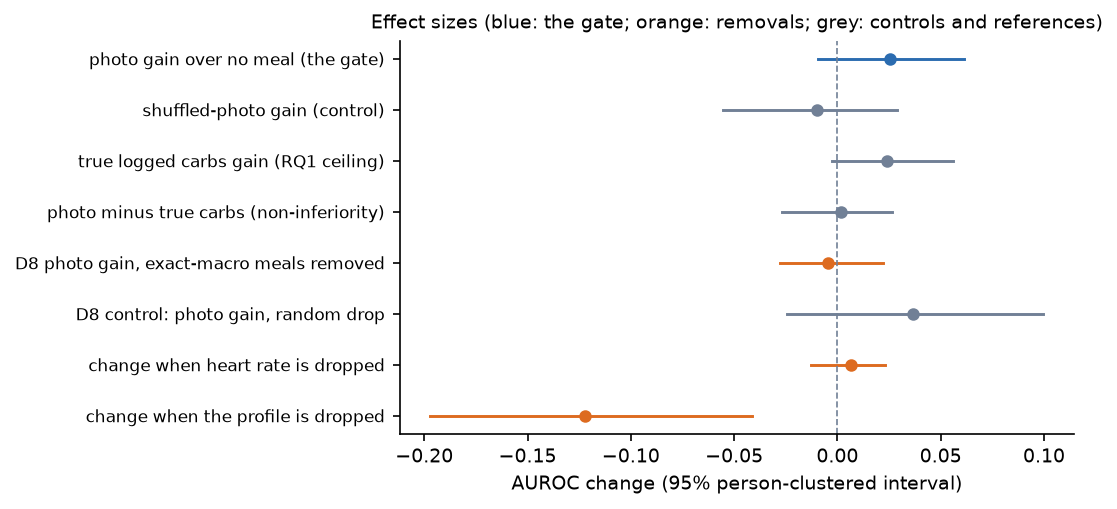
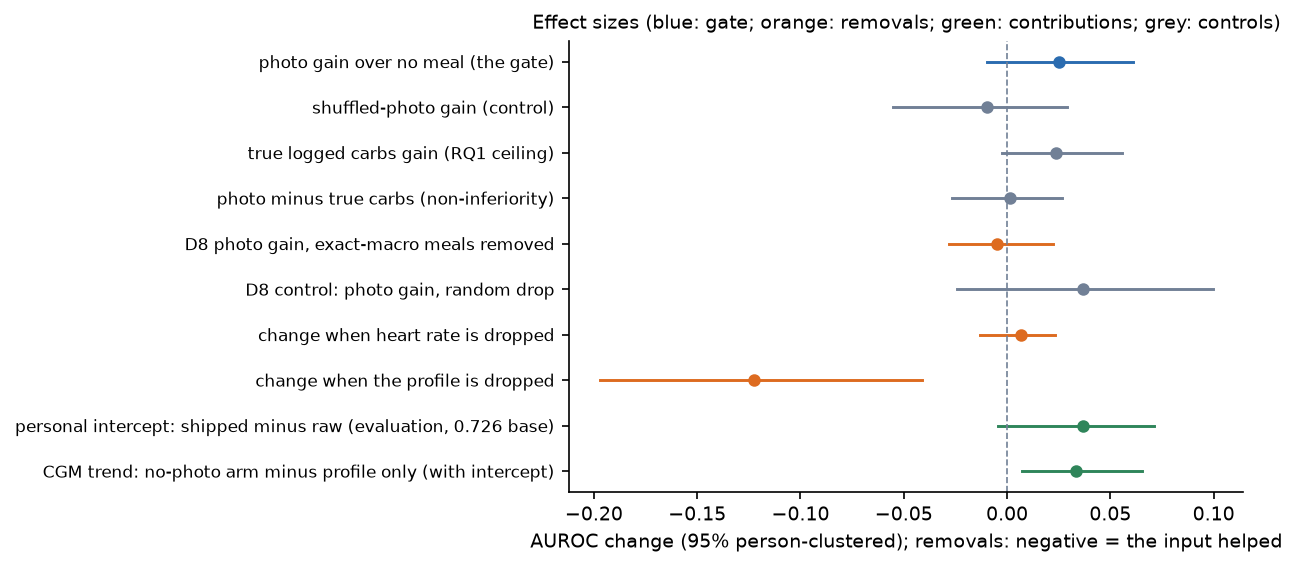
Figure 4: intercept and CGM contributions, sign convention
Claude-Session: https://claude.ai/code/session_01U1MwL7j11MLBZ4KUvxGUHV

diff --git a/src/glimpse/figures.py b/src/glimpse/figures.py
@@ -184,15 +184,20 @@ def f4_effects(plt, fu: dict, ch: dict, d8: dict) -> None:
         ("change when the profile is dropped", ch["delta_vs_full"]["no_profile"]["point"],
          ch["delta_vs_full"]["no_profile"]["ci95"], ORANGE),
     ]  # fmt: skip
-    fig, ax = plt.subplots(figsize=(5.8, 3.4))
+    rm = json.loads(Path("outputs/report_metrics/report_metrics.json").read_text())
+    pg, cg = rm["paired_personal_minus_raw"]["dev"]["auroc"], rm["fair_baselines"]["cgm_removal"]
+    rows += [("personal intercept: shipped minus raw (evaluation, 0.726 base)", pg["point"], pg["ci95"], GREEN),
+             ("CGM trend: no-photo arm minus profile only (with intercept)", cg["no_photo_minus_profile_only"],
+              cg["ci95"], GREEN)]  # fmt: skip
+    fig, ax = plt.subplots(figsize=(5.8, 3.9))
     ys = np.arange(len(rows))[::-1]
     for yv, (_label, pt, ci, c) in zip(ys, rows, strict=True):
         ax.plot(ci, [yv, yv], color=c, lw=1.4)
         ax.plot([pt], [yv], "o", color=c, ms=5)
     ax.axvline(0, color=GREY, lw=0.8, ls="--")
     ax.set_yticks(ys, [r[0] for r in rows], fontsize=8)
-    ax.set_xlabel("AUROC change (95% person-clustered interval)")
-    ax.set_title("Effect sizes (blue: the gate; orange: removals; grey: controls and references)", fontsize=9)
+    ax.set_xlabel("AUROC change (95% person-clustered); removals: negative = the input helped")
+    ax.set_title("Effect sizes (blue: gate; orange: removals; green: contributions; grey: controls)", fontsize=9)
     fig.savefig(OUT / "f4_effects.png")
     plt.close(fig)
 

diff --git a/docs/changelog.md b/docs/changelog.md
@@ -172,3 +172,4 @@ author's standing instruction, not approved one by one.
 | CGM-removal contrast with a paired interval: no-photo arm minus profile only, both with the intercept, +0.033 (+0.007, +0.065), the one established sensor contribution; unfamiliar-photo table (training leave-one-out 1.1% refused, 0 of 14 real local photos, synthetic week median 0.709, instructor screenshot refused, dark photo 0.613 caught by the contrast rule) | no direct CGM ablation; OOD evidence scattered (3 of 3) | report_metrics.json `fair_baselines.cgm_removal`; report §3, §4 |
 | Figure 7 gains a cost panel from `coverage_risk`: on development any abstention raises cost; on the locked eight abstaining the nearest 10% would have lowered it (0.543 against 0.593), descriptive | the coverage curve was not tied to the cost model (2 of 3) | outputs/figures/f7_coverage.png |
 | Figure 6's local panel shows row 847, a confident false clear, instead of the meal nearest risk 0.5 | the old example said nothing about the 0.15 cut (1 of 3) | outputs/figures/f6_shap.png |
+| Figure 4 adds the intercept's paired gain and the CGM contrast (green) and states the removal sign convention | the central effect and the CGM contribution were missing from the effects figure (2 of 3) | outputs/figures/f4_effects.png |

diff --git a/docs/final_report.md b/docs/final_report.md
@@ -286,7 +286,7 @@ cut (Figure 7) keeps the miss rate among cleared meals at 5.6–8.4% from 0 to 3
 fall from 24% to 10% of answered meals. Abstention is established practice (Kompa et al. 2021), but here
 it buys little.
 
-![Figure 4: effect sizes with 95% person-clustered intervals; removals are measured against the fusion study's photo arm (pooled 0.719), not the evaluation's 0.726](../outputs/figures/f4_effects.png)
+![Figure 4: effect sizes with 95% person-clustered intervals; removals are measured against the fusion study's photo arm (pooled 0.719), not the evaluation's 0.726; the green rows come from the evaluation (intercept) and the fair-baseline replay (CGM)](../outputs/figures/f4_effects.png)
 ![Figure 5: every registered perturbation, one run per condition (the table's levels, the meal-time shifts, missing heart rate), per-fold pipelines without history](../outputs/figures/f5_robustness.png)
 
 | stress at three magnitudes | level 1 | level 2 | level 3 |
